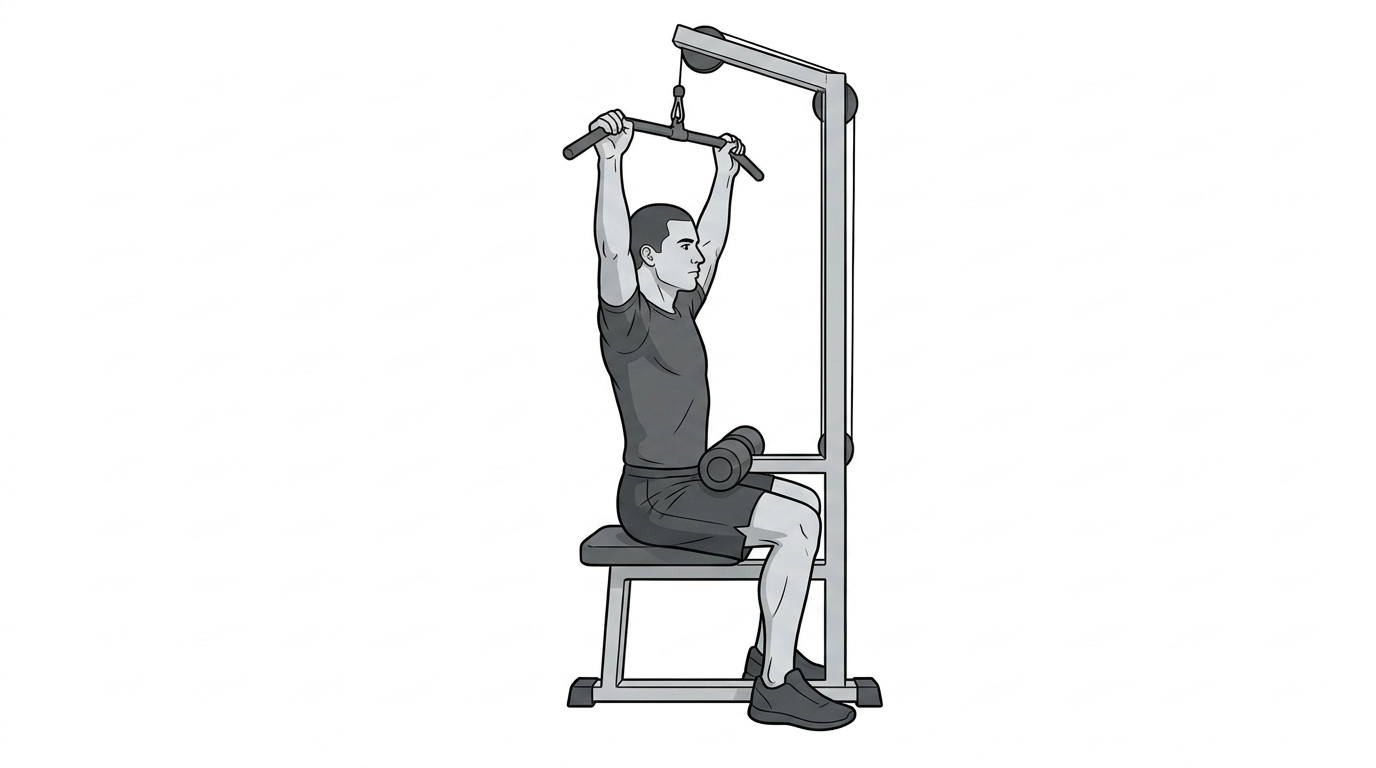
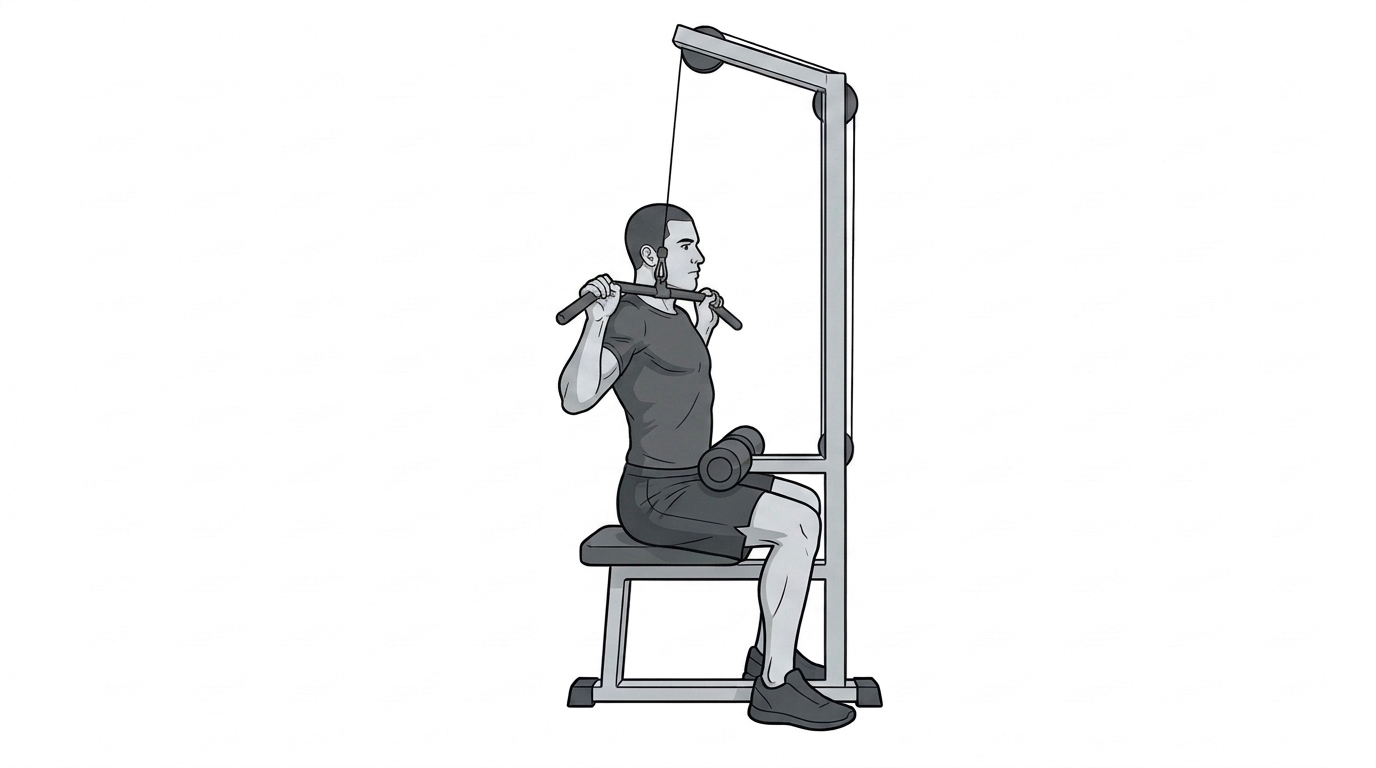
fix: map every exercise to its exact matching illustrations and movement steps

Changed region(s): [[0.4062, 0.0938, 0.5625, 0.625]]

diff --git a/apps/web/src/data/exerciseGuides.ts b/apps/web/src/data/exerciseGuides.ts
@@ -119,21 +119,21 @@ export const FOUNDATIONAL_EXERCISES: ExerciseGuide[] = [
         title: 'Mid-Chest Alignment',
         instruction: 'Adjust seat so handles sit level with mid-chest. Grip handles firmly with wrists straight.',
         cue: 'Plant feet flat, shoulder blades pinched.',
-        imageUrl: '/exercises/shoulder-press-start.jpg',
+        imageUrl: '/exercises/chest-press-start.jpg',
       },
       {
         stepNumber: 2,
         title: 'Forward Press',
         instruction: 'Push handles straight forward until arms extend fully without locking out.',
         cue: 'Squeeze chest at peak contraction.',
-        imageUrl: '/exercises/cable-row-finish.jpg',
+        imageUrl: '/exercises/chest-press-finish.jpg',
       },
       {
         stepNumber: 3,
         title: 'Smooth Return',
         instruction: 'Slowly let handles return back to chest level under steady tension.',
         cue: 'Feel deep chest stretch before next rep.',
-        imageUrl: '/exercises/shoulder-press-start.jpg',
+        imageUrl: '/exercises/chest-press-start.jpg',
       },
     ],
   },
@@ -255,21 +255,21 @@ export const FOUNDATIONAL_EXERCISES: ExerciseGuide[] = [
         title: 'Bottom Hang Setup',
         instruction: 'Stand tall with dumbbells hanging at sides, palms facing forward, core engaged.',
         cue: 'Pin elbows tight to your sides.',
-        imageUrl: '/exercises/goblet-squat-start.jpg',
+        imageUrl: '/exercises/biceps-curl-start.jpg',
       },
       {
         stepNumber: 2,
         title: 'Curl to Shoulders',
         instruction: 'Flex biceps to curl dumbbells up toward shoulder level without moving elbows.',
         cue: 'Peak squeeze at the top.',
-        imageUrl: '/exercises/shoulder-press-start.jpg',
+        imageUrl: '/exercises/biceps-curl-finish.jpg',
       },
       {
         stepNumber: 3,
         title: 'Slow Lower Down',
         instruction: 'Lower dumbbells smoothly all the way back down to full arm extension.',
         cue: '2 full seconds on the way down.',
-        imageUrl: '/exercises/goblet-squat-start.jpg',
+        imageUrl: '/exercises/biceps-curl-start.jpg',
       },
     ],
   },
@@ -303,21 +303,21 @@ export const FOUNDATIONAL_EXERCISES: ExerciseGuide[] = [
         title: 'Platform Foot Stance',
         instruction: 'Sit snug in chair, feet shoulder-width flat on platform, disengage safety levers.',
         cue: 'Back flat, hands gripping handles.',
-        imageUrl: '/exercises/goblet-squat-start.jpg',
+        imageUrl: '/exercises/leg-press-start.jpg',
       },
       {
         stepNumber: 2,
         title: 'Lower Sled to 90°',
         instruction: 'Bend knees to lower sled smoothly until legs reach 90 degrees.',
         cue: 'Stop before lower back rounds off pad.',
-        imageUrl: '/exercises/goblet-squat-finish.jpg',
+        imageUrl: '/exercises/leg-press-finish.jpg',
       },
       {
         stepNumber: 3,
         title: 'Drive Away Through Heels',
         instruction: 'Press through heels to push platform away. Stop just short of locking knees.',
         cue: 'Exhale forcefully as you drive up.',
-        imageUrl: '/exercises/goblet-squat-start.jpg',
+        imageUrl: '/exercises/leg-press-start.jpg',
       },
     ],
   },
@@ -391,21 +391,21 @@ export const FOUNDATIONAL_EXERCISES: ExerciseGuide[] = [
         title: 'Upright Thigh Setup',
         instruction: 'Stand tall with dumbbells in front of thighs, soft knees, lats engaged and chest high.',
         cue: 'Shoulders back and down.',
-        imageUrl: '/exercises/goblet-squat-start.jpg',
+        imageUrl: '/exercises/romanian-deadlift-start.jpg',
       },
       {
         stepNumber: 2,
         title: 'Hip Hinge Descent',
         instruction: 'Push hips backward while sliding dumbbells down shins to just below knee height.',
         cue: 'Feel deep tension across hamstrings.',
-        imageUrl: '/exercises/goblet-squat-finish.jpg',
+        imageUrl: '/exercises/romanian-deadlift-finish.jpg',
       },
       {
         stepNumber: 3,
         title: 'Drive Hips Forward',
         instruction: 'Drive through heels and snap hips forward to stand tall, squeezing glutes.',
         cue: 'Exhale and lock out glutes.',
-        imageUrl: '/exercises/goblet-squat-start.jpg',
+        imageUrl: '/exercises/romanian-deadlift-start.jpg',
       },
     ],
   },
@@ -435,21 +435,21 @@ export const FOUNDATIONAL_EXERCISES: ExerciseGuide[] = [
         title: 'Forearm Base Setup',
         instruction: 'Forearms flat on floor, elbows directly under shoulders, knees on ground.',
         cue: 'Fingers forward, shoulders pressed away from ears.',
-        imageUrl: '/exercises/pushup-step1-top.jpg',
+        imageUrl: '/exercises/forearm-plank.jpg',
       },
       {
         stepNumber: 2,
         title: 'Lock Rigid Plank Line',
         instruction: 'Step toes back and lift knees, locking body into a completely straight horizontal beam.',
         cue: 'Pull belly button toward spine and squeeze glutes.',
-        imageUrl: '/exercises/pushup-step2-bottom.jpg',
+        imageUrl: '/exercises/forearm-plank.jpg',
       },
       {
         stepNumber: 3,
         title: 'Isometric Hold & Breathe',
         instruction: 'Hold rigid alignment for 30–45 seconds while taking slow, rhythmic breaths.',
         cue: 'Do not let hips sag or hike up.',
-        imageUrl: '/exercises/pushup-step1-top.jpg',
+        imageUrl: '/exercises/forearm-plank.jpg',
       },
     ],
   },

diff --git a/apps/web/src/components/ExerciseGraphic.tsx b/apps/web/src/components/ExerciseGraphic.tsx
@@ -14,7 +14,7 @@ const EXERCISE_ASSETS: Record<string, GraphicAsset> = {
   'push-up': {
     start: '/exercises/pushup-step1-top.jpg',
     finish: '/exercises/pushup-step2-bottom.jpg',
-    alt: 'Push-Up Form & Mechanics',
+    alt: 'Standard Push-Up Form & Mechanics',
   },
   'seated-dumbbell-shoulder-press': {
     start: '/exercises/shoulder-press-start.jpg',
@@ -22,8 +22,8 @@ const EXERCISE_ASSETS: Record<string, GraphicAsset> = {
     alt: 'Seated Dumbbell Shoulder Press Form',
   },
   'machine-chest-press': {
-    start: '/exercises/shoulder-press-start.jpg',
-    finish: '/exercises/cable-row-finish.jpg',
+    start: '/exercises/chest-press-start.jpg',
+    finish: '/exercises/chest-press-finish.jpg',
     alt: 'Machine Chest Press Form',
   },
   'lat-pulldown': {
@@ -37,13 +37,13 @@ const EXERCISE_ASSETS: Record<string, GraphicAsset> = {
     alt: 'Seated Cable Row Form & Scapular Retraction',
   },
   'dumbbell-biceps-curl': {
-    start: '/exercises/goblet-squat-start.jpg',
-    finish: '/exercises/shoulder-press-start.jpg',
+    start: '/exercises/biceps-curl-start.jpg',
+    finish: '/exercises/biceps-curl-finish.jpg',
     alt: 'Dumbbell Biceps Curl Form',
   },
   'leg-press-machine': {
-    start: '/exercises/goblet-squat-start.jpg',
-    finish: '/exercises/goblet-squat-finish.jpg',
+    start: '/exercises/leg-press-start.jpg',
+    finish: '/exercises/leg-press-finish.jpg',
     alt: 'Leg Press Machine Mechanics',
   },
   'dumbbell-goblet-squat': {
@@ -52,13 +52,13 @@ const EXERCISE_ASSETS: Record<string, GraphicAsset> = {
     alt: 'Dumbbell Goblet Squat Depth & Form',
   },
   'romanian-dumbbell-deadlift': {
-    start: '/exercises/goblet-squat-start.jpg',
-    finish: '/exercises/goblet-squat-finish.jpg',
+    start: '/exercises/romanian-deadlift-start.jpg',
+    finish: '/exercises/romanian-deadlift-finish.jpg',
     alt: 'Romanian Dumbbell Deadlift Hip Hinge',
   },
   'forearm-plank': {
-    start: '/exercises/pushup-step1-top.jpg',
-    finish: '/exercises/pushup-step2-bottom.jpg',
+    start: '/exercises/forearm-plank.jpg',
+    finish: '/exercises/forearm-plank.jpg',
     alt: 'Forearm Plank Rigidity & Core Bracing',
   },
 };
